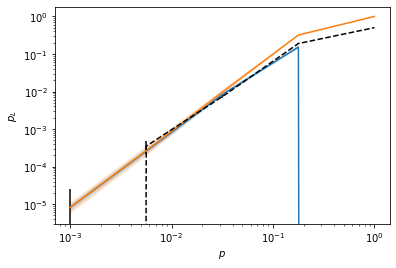
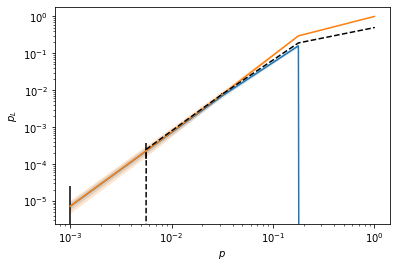
fixed typo in examples

diff --git a/docs/examples.html b/docs/examples.html
@@ -530,27 +530,27 @@ code span.wa { color: #60a0b0; font-weight: bold; font-style: italic; } /* Warni
 </div>
 <div class="cell-output cell-output-display">
 <script type="application/vnd.jupyter.widget-view+json">
-{"model_id":"578481b5787a426ba8f4ed526ada2ec8","version_major":2,"version_minor":0}
+{"model_id":"2e7c611790e34202996aebebde080305","version_major":2,"version_minor":0}
 </script>
 </div>
 <div class="cell-output cell-output-display">
 <script type="application/vnd.jupyter.widget-view+json">
-{"model_id":"903d46c686b640cabf73ba0c3bae6197","version_major":2,"version_minor":0}
+{"model_id":"84b4c9128be243e28f77d93f10a47fc7","version_major":2,"version_minor":0}
 </script>
 </div>
 <div class="cell-output cell-output-display">
 <script type="application/vnd.jupyter.widget-view+json">
-{"model_id":"600f7841105b442f90615612c77abaeb","version_major":2,"version_minor":0}
+{"model_id":"40b2572b242142dfbeb5f4af9da12a4d","version_major":2,"version_minor":0}
 </script>
 </div>
 <div class="cell-output cell-output-display">
 <script type="application/vnd.jupyter.widget-view+json">
-{"model_id":"f09038cdcd704357aedff6b4c4c5da2a","version_major":2,"version_minor":0}
+{"model_id":"8b09099f2d0648c489305637392328aa","version_major":2,"version_minor":0}
 </script>
 </div>
 <div class="cell-output cell-output-display">
 <script type="application/vnd.jupyter.widget-view+json">
-{"model_id":"da6269a4a62e482585f4b4fcfcee3f05","version_major":2,"version_minor":0}
+{"model_id":"402a760e73e7482a914042425963715d","version_major":2,"version_minor":0}
 </script>
 </div>
 <div class="cell-output cell-output-stdout">
@@ -558,7 +558,7 @@ code span.wa { color: #60a0b0; font-weight: bold; font-style: italic; } /* Warni
 </div>
 <div class="cell-output cell-output-display">
 <script type="application/vnd.jupyter.widget-view+json">
-{"model_id":"4fd1352d52f747dd806c2c309f3771fb","version_major":2,"version_minor":0}
+{"model_id":"f91f5f10a2074a24a14faf5ed92289c9","version_major":2,"version_minor":0}
 </script>
 </div>
 <div class="cell-output cell-output-display">
@@ -642,93 +642,93 @@ code span.wa { color: #60a0b0; font-weight: bold; font-style: italic; } /* Warni
 <span id="cb9-68"><a href="#cb9-68" aria-hidden="true" tabindex="-1"></a></span>
 <span id="cb9-69"><a href="#cb9-69" aria-hidden="true" tabindex="-1"></a><span class="kw">def</span> flagged(m):</span>
 <span id="cb9-70"><a href="#cb9-70" aria-hidden="true" tabindex="-1"></a>    v <span class="op">=</span> [<span class="bn">0b01</span>] <span class="kw">in</span> m <span class="kw">or</span> [<span class="bn">0b11</span>] <span class="kw">in</span> m <span class="cf">if</span> m <span class="kw">is</span> <span class="kw">not</span> <span class="va">None</span> <span class="cf">else</span> <span class="va">False</span></span>
-<span id="cb9-71"><a href="#cb9-71" aria-hidden="true" tabindex="-1"></a>    <span class="co"># for i in m:</span></span>
-<span id="cb9-72"><a href="#cb9-72" aria-hidden="true" tabindex="-1"></a>    <span class="co">#     if i:</span></span>
-<span id="cb9-73"><a href="#cb9-73" aria-hidden="true" tabindex="-1"></a>    <span class="co">#         print('flag:', [format(j, '02b') for j in i], ":", v)</span></span>
-<span id="cb9-74"><a href="#cb9-74" aria-hidden="true" tabindex="-1"></a>    <span class="cf">return</span> v</span>
+<span id="cb9-71"><a href="#cb9-71" aria-hidden="true" tabindex="-1"></a>    <span class="cf">return</span> v</span>
+<span id="cb9-72"><a href="#cb9-72" aria-hidden="true" tabindex="-1"></a></span>
+<span id="cb9-73"><a href="#cb9-73" aria-hidden="true" tabindex="-1"></a><span class="kw">def</span> flut(m, f1a, f1b, f2a, f2b, f3a, f3b):</span>
+<span id="cb9-74"><a href="#cb9-74" aria-hidden="true" tabindex="-1"></a>    formatter <span class="op">=</span> <span class="kw">lambda</span> i,m: <span class="bu">str</span>(<span class="bu">format</span>(m, <span class="st">'06b'</span>)[i])</span>
 <span id="cb9-75"><a href="#cb9-75" aria-hidden="true" tabindex="-1"></a></span>
-<span id="cb9-76"><a href="#cb9-76" aria-hidden="true" tabindex="-1"></a><span class="kw">def</span> flut(m, f1a, f1b, f2a, f2b, f3a, f3b):</span>
-<span id="cb9-77"><a href="#cb9-77" aria-hidden="true" tabindex="-1"></a>    formatter <span class="op">=</span> <span class="kw">lambda</span> i,m: <span class="bu">str</span>(<span class="bu">format</span>(m, <span class="st">'06b'</span>)[i])</span>
+<span id="cb9-76"><a href="#cb9-76" aria-hidden="true" tabindex="-1"></a>    sx <span class="op">=</span> <span class="st">''</span>.join([formatter(i,m) <span class="cf">for</span> i <span class="kw">in</span> <span class="bu">range</span>(<span class="dv">3</span>)])</span>
+<span id="cb9-77"><a href="#cb9-77" aria-hidden="true" tabindex="-1"></a>    sz <span class="op">=</span> <span class="st">''</span>.join([formatter(i,m) <span class="cf">for</span> i <span class="kw">in</span> <span class="bu">range</span>(<span class="dv">3</span>,<span class="dv">6</span>)])</span>
 <span id="cb9-78"><a href="#cb9-78" aria-hidden="true" tabindex="-1"></a></span>
-<span id="cb9-79"><a href="#cb9-79" aria-hidden="true" tabindex="-1"></a>    sx <span class="op">=</span> <span class="st">''</span>.join([formatter(i,m) <span class="cf">for</span> i <span class="kw">in</span> <span class="bu">range</span>(<span class="dv">3</span>)])</span>
-<span id="cb9-80"><a href="#cb9-80" aria-hidden="true" tabindex="-1"></a>    sz <span class="op">=</span> <span class="st">''</span>.join([formatter(i,m) <span class="cf">for</span> i <span class="kw">in</span> <span class="bu">range</span>(<span class="dv">3</span>,<span class="dv">6</span>)])</span>
-<span id="cb9-81"><a href="#cb9-81" aria-hidden="true" tabindex="-1"></a></span>
-<span id="cb9-82"><a href="#cb9-82" aria-hidden="true" tabindex="-1"></a>    <span class="cf">if</span> (sz <span class="op">==</span> <span class="st">'001'</span> <span class="kw">and</span> flagged([f2a,f2b])) <span class="kw">or</span> (sz <span class="op">==</span> <span class="st">'010'</span> <span class="kw">and</span> (flagged([f1a,f1b]) <span class="kw">or</span> flagged([f3a,f3b]))):</span>
-<span id="cb9-83"><a href="#cb9-83" aria-hidden="true" tabindex="-1"></a>        corrs <span class="op">=</span> {<span class="st">'010'</span>: {<span class="dv">5</span>, <span class="dv">6</span>}, <span class="st">'001'</span>: {<span class="dv">4</span>, <span class="dv">6</span>}}</span>
-<span id="cb9-84"><a href="#cb9-84" aria-hidden="true" tabindex="-1"></a>        <span class="cf">return</span> Circuit([{<span class="st">'X'</span>: corrs[sz]}], noisy<span class="op">=</span><span class="va">False</span>)</span>
-<span id="cb9-85"><a href="#cb9-85" aria-hidden="true" tabindex="-1"></a>    <span class="cf">else</span>: </span>
-<span id="cb9-86"><a href="#cb9-86" aria-hidden="true" tabindex="-1"></a>        <span class="cf">return</span> Circuit([{}], noisy<span class="op">=</span><span class="va">False</span>)</span>
-<span id="cb9-87"><a href="#cb9-87" aria-hidden="true" tabindex="-1"></a></span>
-<span id="cb9-88"><a href="#cb9-88" aria-hidden="true" tabindex="-1"></a><span class="kw">def</span> rep_check(m):</span>
-<span id="cb9-89"><a href="#cb9-89" aria-hidden="true" tabindex="-1"></a>    <span class="co"># no flag triggered, run second round regardless of syndrome</span></span>
-<span id="cb9-90"><a href="#cb9-90" aria-hidden="true" tabindex="-1"></a>    <span class="cf">return</span> m[<span class="op">-</span><span class="dv">1</span>] <span class="op">==</span> <span class="bn">0b00</span> <span class="kw">or</span> m[<span class="op">-</span><span class="dv">1</span>] <span class="op">==</span> <span class="bn">0b10</span></span>
-<span id="cb9-91"><a href="#cb9-91" aria-hidden="true" tabindex="-1"></a></span>
-<span id="cb9-92"><a href="#cb9-92" aria-hidden="true" tabindex="-1"></a><span class="kw">def</span> nft_check1(m):</span>
-<span id="cb9-93"><a href="#cb9-93" aria-hidden="true" tabindex="-1"></a>    <span class="co"># flag triggered in first or second round OR no flag triggered, syndromes disagree in second round</span></span>
-<span id="cb9-94"><a href="#cb9-94" aria-hidden="true" tabindex="-1"></a>    <span class="cf">return</span> (m[<span class="op">-</span><span class="dv">1</span>] <span class="op">==</span> <span class="bn">0b01</span> <span class="kw">or</span> m[<span class="op">-</span><span class="dv">1</span>] <span class="op">==</span> <span class="bn">0b11</span> <span class="kw">or</span> (m[<span class="op">-</span><span class="dv">1</span>] <span class="op">==</span> <span class="bn">0b01</span>) <span class="kw">or</span> m[<span class="op">-</span><span class="dv">1</span>] <span class="op">==</span> <span class="bn">0b11</span>)</span>
+<span id="cb9-79"><a href="#cb9-79" aria-hidden="true" tabindex="-1"></a>    <span class="cf">if</span> (sz <span class="op">==</span> <span class="st">'001'</span> <span class="kw">and</span> flagged([f2a,f2b])) <span class="kw">or</span> (sz <span class="op">==</span> <span class="st">'010'</span> <span class="kw">and</span> (flagged([f1a,f1b]) <span class="kw">or</span> flagged([f3a,f3b]))):</span>
+<span id="cb9-80"><a href="#cb9-80" aria-hidden="true" tabindex="-1"></a>        corrs <span class="op">=</span> {<span class="st">'010'</span>: {<span class="dv">5</span>, <span class="dv">6</span>}, <span class="st">'001'</span>: {<span class="dv">4</span>, <span class="dv">6</span>}}</span>
+<span id="cb9-81"><a href="#cb9-81" aria-hidden="true" tabindex="-1"></a>        <span class="cf">return</span> qs.Circuit([{<span class="st">'X'</span>: corrs[sz]}], noisy<span class="op">=</span><span class="va">False</span>)</span>
+<span id="cb9-82"><a href="#cb9-82" aria-hidden="true" tabindex="-1"></a>    <span class="cf">else</span>: </span>
+<span id="cb9-83"><a href="#cb9-83" aria-hidden="true" tabindex="-1"></a>        <span class="cf">return</span> qs.Circuit([{}], noisy<span class="op">=</span><span class="va">False</span>)</span>
+<span id="cb9-84"><a href="#cb9-84" aria-hidden="true" tabindex="-1"></a></span>
+<span id="cb9-85"><a href="#cb9-85" aria-hidden="true" tabindex="-1"></a><span class="kw">def</span> rep_check(m):</span>
+<span id="cb9-86"><a href="#cb9-86" aria-hidden="true" tabindex="-1"></a>    <span class="co"># no flag triggered, run second round regardless of syndrome</span></span>
+<span id="cb9-87"><a href="#cb9-87" aria-hidden="true" tabindex="-1"></a>    <span class="cf">return</span> m[<span class="op">-</span><span class="dv">1</span>] <span class="op">==</span> <span class="bn">0b00</span> <span class="kw">or</span> m[<span class="op">-</span><span class="dv">1</span>] <span class="op">==</span> <span class="bn">0b10</span></span>
+<span id="cb9-88"><a href="#cb9-88" aria-hidden="true" tabindex="-1"></a></span>
+<span id="cb9-89"><a href="#cb9-89" aria-hidden="true" tabindex="-1"></a><span class="kw">def</span> nft_check1(m):</span>
+<span id="cb9-90"><a href="#cb9-90" aria-hidden="true" tabindex="-1"></a>    <span class="co"># flag triggered in first or second round OR no flag triggered, syndromes disagree in second round</span></span>
+<span id="cb9-91"><a href="#cb9-91" aria-hidden="true" tabindex="-1"></a>    <span class="cf">return</span> (m[<span class="op">-</span><span class="dv">1</span>] <span class="op">==</span> <span class="bn">0b01</span> <span class="kw">or</span> m[<span class="op">-</span><span class="dv">1</span>] <span class="op">==</span> <span class="bn">0b11</span> <span class="kw">or</span> (m[<span class="op">-</span><span class="dv">1</span>] <span class="op">==</span> <span class="bn">0b01</span>) <span class="kw">or</span> m[<span class="op">-</span><span class="dv">1</span>] <span class="op">==</span> <span class="bn">0b11</span>)</span>
+<span id="cb9-92"><a href="#cb9-92" aria-hidden="true" tabindex="-1"></a></span>
+<span id="cb9-93"><a href="#cb9-93" aria-hidden="true" tabindex="-1"></a><span class="kw">def</span> nft_check2(m1,m2):</span>
+<span id="cb9-94"><a href="#cb9-94" aria-hidden="true" tabindex="-1"></a>    <span class="cf">return</span> (m2[<span class="op">-</span><span class="dv">1</span>] <span class="op">==</span> <span class="bn">0b00</span> <span class="kw">and</span> m1[<span class="op">-</span><span class="dv">1</span>] <span class="op">==</span> <span class="bn">0b10</span>) <span class="kw">or</span> (m2[<span class="op">-</span><span class="dv">1</span>] <span class="op">==</span> <span class="bn">0b10</span> <span class="kw">and</span> m1[<span class="op">-</span><span class="dv">1</span>] <span class="op">==</span> <span class="bn">0b00</span>) <span class="kw">or</span> (m2[<span class="op">-</span><span class="dv">1</span>] <span class="op">==</span> <span class="bn">0b01</span> <span class="kw">or</span> m2[<span class="op">-</span><span class="dv">1</span>] <span class="op">==</span> <span class="bn">0b11</span>)</span>
 <span id="cb9-95"><a href="#cb9-95" aria-hidden="true" tabindex="-1"></a></span>
-<span id="cb9-96"><a href="#cb9-96" aria-hidden="true" tabindex="-1"></a><span class="kw">def</span> nft_check2(m1,m2):</span>
-<span id="cb9-97"><a href="#cb9-97" aria-hidden="true" tabindex="-1"></a>    <span class="cf">return</span> (m2[<span class="op">-</span><span class="dv">1</span>] <span class="op">==</span> <span class="bn">0b00</span> <span class="kw">and</span> m1[<span class="op">-</span><span class="dv">1</span>] <span class="op">==</span> <span class="bn">0b10</span>) <span class="kw">or</span> (m2[<span class="op">-</span><span class="dv">1</span>] <span class="op">==</span> <span class="bn">0b10</span> <span class="kw">and</span> m1[<span class="op">-</span><span class="dv">1</span>] <span class="op">==</span> <span class="bn">0b00</span>) <span class="kw">or</span> (m2[<span class="op">-</span><span class="dv">1</span>] <span class="op">==</span> <span class="bn">0b01</span> <span class="kw">or</span> m2[<span class="op">-</span><span class="dv">1</span>] <span class="op">==</span> <span class="bn">0b11</span>)</span>
-<span id="cb9-98"><a href="#cb9-98" aria-hidden="true" tabindex="-1"></a></span>
-<span id="cb9-99"><a href="#cb9-99" aria-hidden="true" tabindex="-1"></a><span class="kw">def</span> syn_check(m1,m2):</span>
-<span id="cb9-100"><a href="#cb9-100" aria-hidden="true" tabindex="-1"></a>    <span class="co"># no flag triggered, syndromes agree in second round</span></span>
-<span id="cb9-101"><a href="#cb9-101" aria-hidden="true" tabindex="-1"></a>    <span class="cf">return</span> (m2[<span class="op">-</span><span class="dv">1</span>] <span class="op">==</span> <span class="bn">0b00</span> <span class="kw">and</span> m1[<span class="op">-</span><span class="dv">1</span>] <span class="op">==</span> <span class="bn">0b00</span>) <span class="kw">or</span> (m2[<span class="op">-</span><span class="dv">1</span>] <span class="op">==</span> <span class="bn">0b10</span> <span class="kw">and</span> m1[<span class="op">-</span><span class="dv">1</span>] <span class="op">==</span> <span class="bn">0b10</span>)</span>
-<span id="cb9-102"><a href="#cb9-102" aria-hidden="true" tabindex="-1"></a></span>
-<span id="cb9-103"><a href="#cb9-103" aria-hidden="true" tabindex="-1"></a>functions <span class="op">=</span> {<span class="st">"logErr"</span>: logErr, <span class="st">"flut"</span>: flut, <span class="st">"rep_check"</span>: rep_check, <span class="st">"nft_check1"</span>: nft_check1, <span class="st">'nft_check2'</span>: nft_check2, <span class="st">"syn_check"</span>: syn_check}</span>
-<span id="cb9-104"><a href="#cb9-104" aria-hidden="true" tabindex="-1"></a></span>
-<span id="cb9-105"><a href="#cb9-105" aria-hidden="true" tabindex="-1"></a><span class="co"># Define protocol</span></span>
-<span id="cb9-106"><a href="#cb9-106" aria-hidden="true" tabindex="-1"></a></span>
-<span id="cb9-107"><a href="#cb9-107" aria-hidden="true" tabindex="-1"></a>flagstab <span class="op">=</span> qs.Protocol(check_functions<span class="op">=</span>functions, fault_tolerant<span class="op">=</span><span class="va">True</span>)</span>
-<span id="cb9-108"><a href="#cb9-108" aria-hidden="true" tabindex="-1"></a>flagstab.add_nodes_from([<span class="st">'X1a'</span>, <span class="st">'X1b'</span>, <span class="st">'X2a'</span>, <span class="st">'X2b'</span>, <span class="st">'X3a'</span>, <span class="st">'X3b'</span>, <span class="st">'nonFT'</span>, <span class="st">'meas'</span>], circuits<span class="op">=</span>[fmx_1, fmx_1, fmx_2,fmx_2, fmx_3,fmx_3, nfs, meas7])</span>
-<span id="cb9-109"><a href="#cb9-109" aria-hidden="true" tabindex="-1"></a>flagstab.add_node(<span class="st">'COR'</span>)</span>
-<span id="cb9-110"><a href="#cb9-110" aria-hidden="true" tabindex="-1"></a>flagstab.add_edge(<span class="st">'START'</span>, <span class="st">'X1a'</span>, check<span class="op">=</span><span class="st">'True'</span>)</span>
-<span id="cb9-111"><a href="#cb9-111" aria-hidden="true" tabindex="-1"></a></span>
-<span id="cb9-112"><a href="#cb9-112" aria-hidden="true" tabindex="-1"></a><span class="co"># no flag triggered, run second round regardless of syndrome</span></span>
-<span id="cb9-113"><a href="#cb9-113" aria-hidden="true" tabindex="-1"></a>flagstab.add_edge(<span class="st">'X1a'</span>, <span class="st">'X2a'</span>, check<span class="op">=</span><span class="st">'rep_check(X1a)'</span>)</span>
-<span id="cb9-114"><a href="#cb9-114" aria-hidden="true" tabindex="-1"></a>flagstab.add_edge(<span class="st">'X2a'</span>, <span class="st">'X3a'</span>, check<span class="op">=</span><span class="st">'rep_check(X2a)'</span>)</span>
-<span id="cb9-115"><a href="#cb9-115" aria-hidden="true" tabindex="-1"></a>flagstab.add_edge(<span class="st">'X3a'</span>, <span class="st">'X1b'</span>, check<span class="op">=</span><span class="st">'rep_check(X3a)'</span>)</span>
-<span id="cb9-116"><a href="#cb9-116" aria-hidden="true" tabindex="-1"></a></span>
-<span id="cb9-117"><a href="#cb9-117" aria-hidden="true" tabindex="-1"></a><span class="co"># flag triggered in first or second round OR no flag triggered, syndromes disagree in second round</span></span>
-<span id="cb9-118"><a href="#cb9-118" aria-hidden="true" tabindex="-1"></a>flagstab.add_edge(<span class="st">'X1b'</span>, <span class="st">'nonFT'</span>, check<span class="op">=</span><span class="st">'nft_check2(X1a,X1b)'</span>)</span>
-<span id="cb9-119"><a href="#cb9-119" aria-hidden="true" tabindex="-1"></a>flagstab.add_edge(<span class="st">'X2b'</span>, <span class="st">'nonFT'</span>, check<span class="op">=</span><span class="st">'nft_check2(X2a,X2b)'</span>)</span>
-<span id="cb9-120"><a href="#cb9-120" aria-hidden="true" tabindex="-1"></a>flagstab.add_edge(<span class="st">'X3b'</span>, <span class="st">'nonFT'</span>, check<span class="op">=</span><span class="st">'nft_check2(X3a,X3b)'</span>)</span>
-<span id="cb9-121"><a href="#cb9-121" aria-hidden="true" tabindex="-1"></a></span>
-<span id="cb9-122"><a href="#cb9-122" aria-hidden="true" tabindex="-1"></a><span class="co"># flag triggered in first or second round OR no flag triggered, syndromes disagree in second round</span></span>
-<span id="cb9-123"><a href="#cb9-123" aria-hidden="true" tabindex="-1"></a>flagstab.add_edge(<span class="st">'X1a'</span>, <span class="st">'nonFT'</span>, check<span class="op">=</span><span class="st">'nft_check1(X1a)'</span>)</span>
-<span id="cb9-124"><a href="#cb9-124" aria-hidden="true" tabindex="-1"></a>flagstab.add_edge(<span class="st">'X2a'</span>, <span class="st">'nonFT'</span>, check<span class="op">=</span><span class="st">'nft_check1(X2a)'</span>)</span>
-<span id="cb9-125"><a href="#cb9-125" aria-hidden="true" tabindex="-1"></a>flagstab.add_edge(<span class="st">'X3a'</span>, <span class="st">'nonFT'</span>, check<span class="op">=</span><span class="st">'nft_check1(X3a)'</span>)</span>
-<span id="cb9-126"><a href="#cb9-126" aria-hidden="true" tabindex="-1"></a></span>
-<span id="cb9-127"><a href="#cb9-127" aria-hidden="true" tabindex="-1"></a><span class="co"># no flag triggered, syndromes agree in second round</span></span>
-<span id="cb9-128"><a href="#cb9-128" aria-hidden="true" tabindex="-1"></a>flagstab.add_edge(<span class="st">'X1b'</span>, <span class="st">'X2b'</span>, check<span class="op">=</span><span class="st">'syn_check(X1a,X1b)'</span>)</span>
-<span id="cb9-129"><a href="#cb9-129" aria-hidden="true" tabindex="-1"></a>flagstab.add_edge(<span class="st">'X2b'</span>, <span class="st">'X3b'</span>, check<span class="op">=</span><span class="st">'syn_check(X2a,X2b)'</span>)</span>
-<span id="cb9-130"><a href="#cb9-130" aria-hidden="true" tabindex="-1"></a>flagstab.add_edge(<span class="st">'X3b'</span>, <span class="st">'meas'</span>, check<span class="op">=</span><span class="st">'syn_check(X3a,X3b)'</span>)</span>
-<span id="cb9-131"><a href="#cb9-131" aria-hidden="true" tabindex="-1"></a></span>
-<span id="cb9-132"><a href="#cb9-132" aria-hidden="true" tabindex="-1"></a><span class="co"># apply flag correction after nonFT if a flag was triggered</span></span>
-<span id="cb9-133"><a href="#cb9-133" aria-hidden="true" tabindex="-1"></a>flagstab.add_edge(<span class="st">'nonFT'</span>, <span class="st">'COR'</span>, check<span class="op">=</span><span class="st">'flut(nonFT[-1], X1a,X1b, X2a,X2b, X3a,X3b)'</span>)</span>
-<span id="cb9-134"><a href="#cb9-134" aria-hidden="true" tabindex="-1"></a>flagstab.add_edge(<span class="st">'COR'</span>, <span class="st">'meas'</span>, check<span class="op">=</span><span class="st">'True'</span>)</span>
-<span id="cb9-135"><a href="#cb9-135" aria-hidden="true" tabindex="-1"></a>flagstab.add_edge(<span class="st">'meas'</span>, <span class="st">'FAIL'</span>, check<span class="op">=</span><span class="st">'logErr(meas[-1])'</span>)</span>
-<span id="cb9-136"><a href="#cb9-136" aria-hidden="true" tabindex="-1"></a></span>
-<span id="cb9-137"><a href="#cb9-137" aria-hidden="true" tabindex="-1"></a><span class="co"># Sample protocol</span></span>
-<span id="cb9-138"><a href="#cb9-138" aria-hidden="true" tabindex="-1"></a></span>
-<span id="cb9-139"><a href="#cb9-139" aria-hidden="true" tabindex="-1"></a><span class="co"># Sampling parameters</span></span>
-<span id="cb9-140"><a href="#cb9-140" aria-hidden="true" tabindex="-1"></a></span>
-<span id="cb9-141"><a href="#cb9-141" aria-hidden="true" tabindex="-1"></a>sample_range <span class="op">=</span> np.logspace(<span class="op">-</span><span class="dv">3</span>,<span class="dv">0</span>,<span class="dv">5</span>)</span>
-<span id="cb9-142"><a href="#cb9-142" aria-hidden="true" tabindex="-1"></a>err_params <span class="op">=</span> {<span class="st">'q'</span>: sample_range}</span>
-<span id="cb9-143"><a href="#cb9-143" aria-hidden="true" tabindex="-1"></a>err_model <span class="op">=</span> qs.noise.E1</span>
-<span id="cb9-144"><a href="#cb9-144" aria-hidden="true" tabindex="-1"></a>CHP <span class="op">=</span> qs.StabilizerSimulator</span>
-<span id="cb9-145"><a href="#cb9-145" aria-hidden="true" tabindex="-1"></a>p_max <span class="op">=</span> {<span class="st">'q'</span>: <span class="fl">0.05</span>}</span>
+<span id="cb9-96"><a href="#cb9-96" aria-hidden="true" tabindex="-1"></a><span class="kw">def</span> syn_check(m1,m2):</span>
+<span id="cb9-97"><a href="#cb9-97" aria-hidden="true" tabindex="-1"></a>    <span class="co"># no flag triggered, syndromes agree in second round</span></span>
+<span id="cb9-98"><a href="#cb9-98" aria-hidden="true" tabindex="-1"></a>    <span class="cf">return</span> (m2[<span class="op">-</span><span class="dv">1</span>] <span class="op">==</span> <span class="bn">0b00</span> <span class="kw">and</span> m1[<span class="op">-</span><span class="dv">1</span>] <span class="op">==</span> <span class="bn">0b00</span>) <span class="kw">or</span> (m2[<span class="op">-</span><span class="dv">1</span>] <span class="op">==</span> <span class="bn">0b10</span> <span class="kw">and</span> m1[<span class="op">-</span><span class="dv">1</span>] <span class="op">==</span> <span class="bn">0b10</span>)</span>
+<span id="cb9-99"><a href="#cb9-99" aria-hidden="true" tabindex="-1"></a></span>
+<span id="cb9-100"><a href="#cb9-100" aria-hidden="true" tabindex="-1"></a>functions <span class="op">=</span> {<span class="st">"logErr"</span>: logErr, <span class="st">"flut"</span>: flut, <span class="st">"rep_check"</span>: rep_check, <span class="st">"nft_check1"</span>: nft_check1, <span class="st">'nft_check2'</span>: nft_check2, <span class="st">"syn_check"</span>: syn_check}</span>
+<span id="cb9-101"><a href="#cb9-101" aria-hidden="true" tabindex="-1"></a></span>
+<span id="cb9-102"><a href="#cb9-102" aria-hidden="true" tabindex="-1"></a><span class="co"># Define protocol</span></span>
+<span id="cb9-103"><a href="#cb9-103" aria-hidden="true" tabindex="-1"></a></span>
+<span id="cb9-104"><a href="#cb9-104" aria-hidden="true" tabindex="-1"></a>flagstab <span class="op">=</span> qs.Protocol(check_functions<span class="op">=</span>functions, fault_tolerant<span class="op">=</span><span class="va">True</span>)</span>
+<span id="cb9-105"><a href="#cb9-105" aria-hidden="true" tabindex="-1"></a>flagstab.add_nodes_from([<span class="st">'X1a'</span>, <span class="st">'X1b'</span>, <span class="st">'X2a'</span>, <span class="st">'X2b'</span>, <span class="st">'X3a'</span>, <span class="st">'X3b'</span>, <span class="st">'nonFT'</span>, <span class="st">'meas'</span>], circuits<span class="op">=</span>[fmx_1, fmx_1, fmx_2,fmx_2, fmx_3,fmx_3, nfs, meas7])</span>
+<span id="cb9-106"><a href="#cb9-106" aria-hidden="true" tabindex="-1"></a>flagstab.add_node(<span class="st">'COR'</span>)</span>
+<span id="cb9-107"><a href="#cb9-107" aria-hidden="true" tabindex="-1"></a>flagstab.add_edge(<span class="st">'START'</span>, <span class="st">'X1a'</span>, check<span class="op">=</span><span class="st">'True'</span>)</span>
+<span id="cb9-108"><a href="#cb9-108" aria-hidden="true" tabindex="-1"></a></span>
+<span id="cb9-109"><a href="#cb9-109" aria-hidden="true" tabindex="-1"></a><span class="co"># no flag triggered, run second round regardless of syndrome</span></span>
+<span id="cb9-110"><a href="#cb9-110" aria-hidden="true" tabindex="-1"></a>flagstab.add_edge(<span class="st">'X1a'</span>, <span class="st">'X2a'</span>, check<span class="op">=</span><span class="st">'rep_check(X1a)'</span>)</span>
+<span id="cb9-111"><a href="#cb9-111" aria-hidden="true" tabindex="-1"></a>flagstab.add_edge(<span class="st">'X2a'</span>, <span class="st">'X3a'</span>, check<span class="op">=</span><span class="st">'rep_check(X2a)'</span>)</span>
+<span id="cb9-112"><a href="#cb9-112" aria-hidden="true" tabindex="-1"></a>flagstab.add_edge(<span class="st">'X3a'</span>, <span class="st">'X1b'</span>, check<span class="op">=</span><span class="st">'rep_check(X3a)'</span>)</span>
+<span id="cb9-113"><a href="#cb9-113" aria-hidden="true" tabindex="-1"></a></span>
+<span id="cb9-114"><a href="#cb9-114" aria-hidden="true" tabindex="-1"></a><span class="co"># flag triggered in first or second round OR no flag triggered, syndromes disagree in second round</span></span>
+<span id="cb9-115"><a href="#cb9-115" aria-hidden="true" tabindex="-1"></a>flagstab.add_edge(<span class="st">'X1b'</span>, <span class="st">'nonFT'</span>, check<span class="op">=</span><span class="st">'nft_check2(X1a,X1b)'</span>)</span>
+<span id="cb9-116"><a href="#cb9-116" aria-hidden="true" tabindex="-1"></a>flagstab.add_edge(<span class="st">'X2b'</span>, <span class="st">'nonFT'</span>, check<span class="op">=</span><span class="st">'nft_check2(X2a,X2b)'</span>)</span>
+<span id="cb9-117"><a href="#cb9-117" aria-hidden="true" tabindex="-1"></a>flagstab.add_edge(<span class="st">'X3b'</span>, <span class="st">'nonFT'</span>, check<span class="op">=</span><span class="st">'nft_check2(X3a,X3b)'</span>)</span>
+<span id="cb9-118"><a href="#cb9-118" aria-hidden="true" tabindex="-1"></a></span>
+<span id="cb9-119"><a href="#cb9-119" aria-hidden="true" tabindex="-1"></a><span class="co"># flag triggered in first or second round OR no flag triggered, syndromes disagree in second round</span></span>
+<span id="cb9-120"><a href="#cb9-120" aria-hidden="true" tabindex="-1"></a>flagstab.add_edge(<span class="st">'X1a'</span>, <span class="st">'nonFT'</span>, check<span class="op">=</span><span class="st">'nft_check1(X1a)'</span>)</span>
+<span id="cb9-121"><a href="#cb9-121" aria-hidden="true" tabindex="-1"></a>flagstab.add_edge(<span class="st">'X2a'</span>, <span class="st">'nonFT'</span>, check<span class="op">=</span><span class="st">'nft_check1(X2a)'</span>)</span>
+<span id="cb9-122"><a href="#cb9-122" aria-hidden="true" tabindex="-1"></a>flagstab.add_edge(<span class="st">'X3a'</span>, <span class="st">'nonFT'</span>, check<span class="op">=</span><span class="st">'nft_check1(X3a)'</span>)</span>
+<span id="cb9-123"><a href="#cb9-123" aria-hidden="true" tabindex="-1"></a></span>
+<span id="cb9-124"><a href="#cb9-124" aria-hidden="true" tabindex="-1"></a><span class="co"># no flag triggered, syndromes agree in second round</span></span>
+<span id="cb9-125"><a href="#cb9-125" aria-hidden="true" tabindex="-1"></a>flagstab.add_edge(<span class="st">'X1b'</span>, <span class="st">'X2b'</span>, check<span class="op">=</span><span class="st">'syn_check(X1a,X1b)'</span>)</span>
+<span id="cb9-126"><a href="#cb9-126" aria-hidden="true" tabindex="-1"></a>flagstab.add_edge(<span class="st">'X2b'</span>, <span class="st">'X3b'</span>, check<span class="op">=</span><span class="st">'syn_check(X2a,X2b)'</span>)</span>
+<span id="cb9-127"><a href="#cb9-127" aria-hidden="true" tabindex="-1"></a>flagstab.add_edge(<span class="st">'X3b'</span>, <span class="st">'meas'</span>, check<span class="op">=</span><span class="st">'syn_check(X3a,X3b)'</span>)</span>
+<span id="cb9-128"><a href="#cb9-128" aria-hidden="true" tabindex="-1"></a></span>
+<span id="cb9-129"><a href="#cb9-129" aria-hidden="true" tabindex="-1"></a><span class="co"># apply flag correction after nonFT if a flag was triggered</span></span>
+<span id="cb9-130"><a href="#cb9-130" aria-hidden="true" tabindex="-1"></a>flagstab.add_edge(<span class="st">'nonFT'</span>, <span class="st">'COR'</span>, check<span class="op">=</span><span class="st">'flut(nonFT[-1], X1a,X1b, X2a,X2b, X3a,X3b)'</span>)</span>
+<span id="cb9-131"><a href="#cb9-131" aria-hidden="true" tabindex="-1"></a>flagstab.add_edge(<span class="st">'COR'</span>, <span class="st">'meas'</span>, check<span class="op">=</span><span class="st">'True'</span>)</span>
+<span id="cb9-132"><a href="#cb9-132" aria-hidden="true" tabindex="-1"></a>flagstab.add_edge(<span class="st">'meas'</span>, <span class="st">'FAIL'</span>, check<span class="op">=</span><span class="st">'logErr(meas[-1])'</span>)</span>
+<span id="cb9-133"><a href="#cb9-133" aria-hidden="true" tabindex="-1"></a></span>
+<span id="cb9-134"><a href="#cb9-134" aria-hidden="true" tabindex="-1"></a><span class="co"># Sample protocol</span></span>
+<span id="cb9-135"><a href="#cb9-135" aria-hidden="true" tabindex="-1"></a></span>
+<span id="cb9-136"><a href="#cb9-136" aria-hidden="true" tabindex="-1"></a><span class="co"># Sampling parameters</span></span>
+<span id="cb9-137"><a href="#cb9-137" aria-hidden="true" tabindex="-1"></a></span>
+<span id="cb9-138"><a href="#cb9-138" aria-hidden="true" tabindex="-1"></a><span class="co"># sample_range = np.logspace(-4,-1,7)</span></span>
+<span id="cb9-139"><a href="#cb9-139" aria-hidden="true" tabindex="-1"></a>sample_range <span class="op">=</span> np.logspace(<span class="op">-</span><span class="dv">3</span>,<span class="dv">0</span>,<span class="dv">5</span>)</span>
+<span id="cb9-140"><a href="#cb9-140" aria-hidden="true" tabindex="-1"></a>err_params <span class="op">=</span> {<span class="st">'q'</span>: sample_range}</span>
+<span id="cb9-141"><a href="#cb9-141" aria-hidden="true" tabindex="-1"></a>err_model <span class="op">=</span> qs.noise.E1</span>
+<span id="cb9-142"><a href="#cb9-142" aria-hidden="true" tabindex="-1"></a><span class="co"># err_model = qs.noise.S1</span></span>
+<span id="cb9-143"><a href="#cb9-143" aria-hidden="true" tabindex="-1"></a>CHP <span class="op">=</span> qs.StabilizerSimulator</span>
+<span id="cb9-144"><a href="#cb9-144" aria-hidden="true" tabindex="-1"></a><span class="co"># p_max = {'q': 0.05}</span></span>
+<span id="cb9-145"><a href="#cb9-145" aria-hidden="true" tabindex="-1"></a>p_max <span class="op">=</span> {<span class="st">'q'</span>: <span class="fl">1e-2</span>}</span>
 <span id="cb9-146"><a href="#cb9-146" aria-hidden="true" tabindex="-1"></a></span>
 <span id="cb9-147"><a href="#cb9-147" aria-hidden="true" tabindex="-1"></a><span class="co"># Direct MC sampling</span></span>
 <span id="cb9-148"><a href="#cb9-148" aria-hidden="true" tabindex="-1"></a></span>
 <span id="cb9-149"><a href="#cb9-149" aria-hidden="true" tabindex="-1"></a><span class="bu">print</span>(<span class="st">"--- Direct MC sampling ---"</span>)</span>
 <span id="cb9-150"><a href="#cb9-150" aria-hidden="true" tabindex="-1"></a></span>
-<span id="cb9-151"><a href="#cb9-151" aria-hidden="true" tabindex="-1"></a>mc_sam <span class="op">=</span> qs.DirectSampler(ftsteane, CHP, err_params<span class="op">=</span>err_params, err_model<span class="op">=</span>err_model)</span>
-<span id="cb9-152"><a href="#cb9-152" aria-hidden="true" tabindex="-1"></a>mc_sam.run(<span class="dv">20000</span>)</span>
+<span id="cb9-151"><a href="#cb9-151" aria-hidden="true" tabindex="-1"></a>mc_sam <span class="op">=</span> qs.DirectSampler(flagstab, CHP, err_params<span class="op">=</span>err_params, err_model<span class="op">=</span>err_model)</span>
+<span id="cb9-152"><a href="#cb9-152" aria-hidden="true" tabindex="-1"></a>mc_sam.run(<span class="dv">10000</span>)</span>
 <span id="cb9-153"><a href="#cb9-153" aria-hidden="true" tabindex="-1"></a></span>
 <span id="cb9-154"><a href="#cb9-154" aria-hidden="true" tabindex="-1"></a><span class="bu">print</span>(<span class="st">"--- Subset sampling ---"</span>)</span>
 <span id="cb9-155"><a href="#cb9-155" aria-hidden="true" tabindex="-1"></a></span>
-<span id="cb9-156"><a href="#cb9-156" aria-hidden="true" tabindex="-1"></a>ss_sam <span class="op">=</span> qs.SubsetSampler(ftsteane, CHP,  p_max<span class="op">=</span>p_max, err_model<span class="op">=</span>err_model, err_params<span class="op">=</span>err_params, L<span class="op">=</span><span class="dv">8</span>)</span>
-<span id="cb9-157"><a href="#cb9-157" aria-hidden="true" tabindex="-1"></a>ss_sam.run(<span class="dv">5000</span>)</span>
+<span id="cb9-156"><a href="#cb9-156" aria-hidden="true" tabindex="-1"></a>ss_sam <span class="op">=</span> qs.SubsetSampler(flagstab, CHP,  p_max<span class="op">=</span>p_max, err_model<span class="op">=</span>err_model, err_params<span class="op">=</span>err_params, L<span class="op">=</span><span class="dv">8</span>)</span>
+<span id="cb9-157"><a href="#cb9-157" aria-hidden="true" tabindex="-1"></a>ss_sam.run(<span class="dv">10000</span>)</span>
 <span id="cb9-158"><a href="#cb9-158" aria-hidden="true" tabindex="-1"></a></span>
 <span id="cb9-159"><a href="#cb9-159" aria-hidden="true" tabindex="-1"></a><span class="co"># Plot results</span></span>
 <span id="cb9-160"><a href="#cb9-160" aria-hidden="true" tabindex="-1"></a></span>
@@ -747,27 +747,27 @@ code span.wa { color: #60a0b0; font-weight: bold; font-style: italic; } /* Warni
 </div>
 <div class="cell-output cell-output-display">
 <script type="application/vnd.jupyter.widget-view+json">
-{"model_id":"31e9e39d5d51475eb740ddc1c9d322f9","version_major":2,"version_minor":0}
+{"model_id":"8c592585d5b844d1956df23bc047e14f","version_major":2,"version_minor":0}
 </script>
 </div>
 <div class="cell-output cell-output-display">
 <script type="application/vnd.jupyter.widget-view+json">
-{"model_id":"87243bb99eb84f6ba46f35a6c73ee9ed","version_major":2,"version_minor":0}
+{"model_id":"c65a6d0d20a94e57a700dfa03a385c5a","version_major":2,"version_minor":0}
 </script>
 </div>
 <div class="cell-output cell-output-display">
 <script type="application/vnd.jupyter.widget-view+json">
-{"model_id":"82a00e1052a24e648b84782091666dae","version_major":2,"version_minor":0}
+{"model_id":"49b81206c4814397a34ba5ebf89e6ea6","version_major":2,"version_minor":0}
 </script>
 </div>
 <div class="cell-output cell-output-display">
 <script type="application/vnd.jupyter.widget-view+json">
-{"model_id":"3b2c0eaf6b234877ac9a38c585d5072b","version_major":2,"version_minor":0}
+{"model_id":"8426d41135b142fcab023f7b667df58b","version_major":2,"version_minor":0}
 </script>
 </div>
 <div class="cell-output cell-output-display">
 <script type="application/vnd.jupyter.widget-view+json">
-{"model_id":"ca025ca38aa24d1fa827c1eeb502e710","version_major":2,"version_minor":0}
+{"model_id":"8d7ed9bd4716460a81d8640e20ae3033","version_major":2,"version_minor":0}
 </script>
 </div>
 <div class="cell-output cell-output-stdout">
@@ -775,7 +775,7 @@ code span.wa { color: #60a0b0; font-weight: bold; font-style: italic; } /* Warni
 </div>
 <div class="cell-output cell-output-display">
 <script type="application/vnd.jupyter.widget-view+json">
-{"model_id":"9d33eb78499a45e78da58bc2e79c06ab","version_major":2,"version_minor":0}
+{"model_id":"02ea617c30674615ae3ac5e682c8b219","version_major":2,"version_minor":0}
 </script>
 </div>
 <div class="cell-output cell-output-display">

diff --git a/docs/math.html b/docs/math.html
@@ -409,7 +409,7 @@ code span.wa { color: #60a0b0; font-weight: bold; font-style: italic; } /* Warni
 </tbody>
 </table>
 <div class="cell">
-<div class="sourceCode cell-code" id="cb6"><pre class="sourceCode python code-with-copy"><code class="sourceCode python"><span id="cb6-1"><a href="#cb6-1" aria-hidden="true" tabindex="-1"></a>test_eq(joint_binom(k<span class="op">=</span>[<span class="dv">1</span>,<span class="dv">2</span>], n<span class="op">=</span>[<span class="dv">3</span>,<span class="dv">4</span>], p<span class="op">=</span>[<span class="fl">0.1</span>,<span class="fl">0.2</span>]), binom(k<span class="op">=</span><span class="dv">1</span>,n<span class="op">=</span><span class="dv">3</span>,p<span class="op">=</span><span class="fl">0.1</span>) <span class="op">*</span> binom(k<span class="op">=</span><span class="dv">2</span>,n<span class="op">=</span><span class="dv">4</span>,p<span class="op">=</span><span class="fl">0.2</span>))</span>
+<div class="sourceCode cell-code" id="cb6"><pre class="sourceCode python code-with-copy"><code class="sourceCode python"><span id="cb6-1"><a href="#cb6-1" aria-hidden="true" tabindex="-1"></a>test_close(joint_binom(k<span class="op">=</span>[<span class="dv">1</span>,<span class="dv">2</span>], n<span class="op">=</span>[<span class="dv">3</span>,<span class="dv">4</span>], p<span class="op">=</span>[<span class="fl">0.1</span>,<span class="fl">0.2</span>]), binom(k<span class="op">=</span><span class="dv">1</span>,n<span class="op">=</span><span class="dv">3</span>,p<span class="op">=</span><span class="fl">0.1</span>) <span class="op">*</span> binom(k<span class="op">=</span><span class="dv">2</span>,n<span class="op">=</span><span class="dv">4</span>,p<span class="op">=</span><span class="fl">0.2</span>))</span>
 <span id="cb6-2"><a href="#cb6-2" aria-hidden="true" tabindex="-1"></a>test_close(joint_binom(k<span class="op">=</span>[<span class="dv">1</span>,<span class="dv">2</span>], n<span class="op">=</span>[<span class="dv">2</span>,<span class="dv">3</span>], p<span class="op">=</span>[[<span class="fl">0.1</span>,<span class="fl">0.2</span>],[<span class="fl">.3</span>,<span class="fl">.4</span>]]), [binom(<span class="dv">1</span>,<span class="dv">2</span>,<span class="fl">0.1</span>)<span class="op">*</span>binom(<span class="dv">2</span>,<span class="dv">3</span>,<span class="fl">0.2</span>), binom(<span class="dv">1</span>,<span class="dv">2</span>,<span class="fl">0.3</span>)<span class="op">*</span>binom(<span class="dv">2</span>,<span class="dv">3</span>,<span class="fl">0.4</span>)])</span></code><button title="Copy to Clipboard" class="code-copy-button"><i class="bi"></i></button></pre></div>
 </div>
 <hr>
